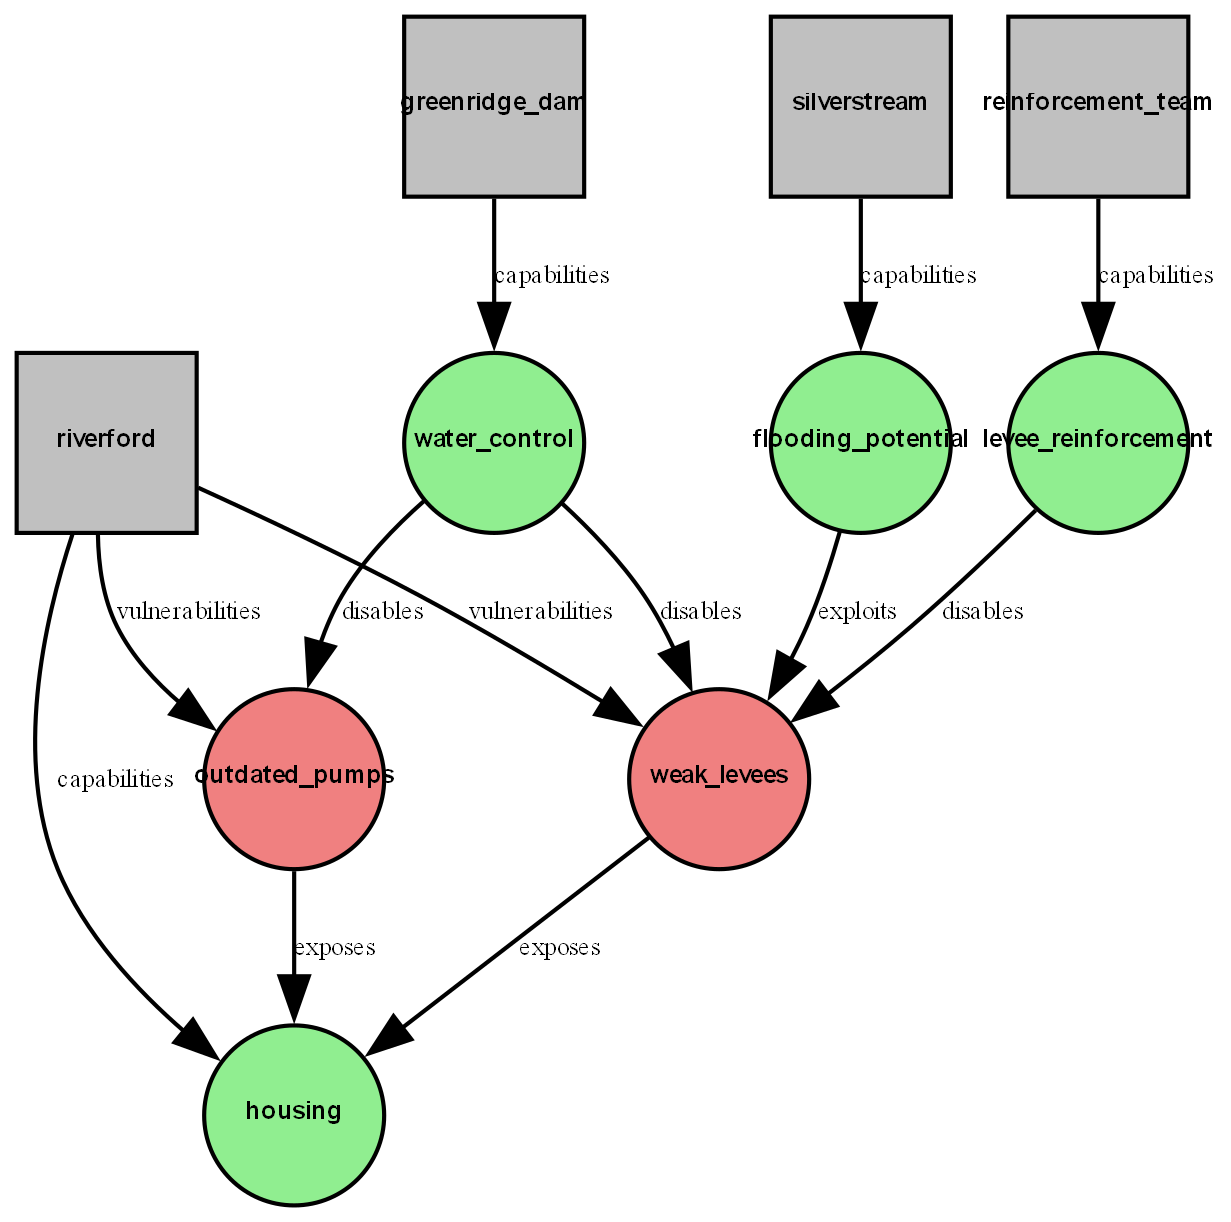
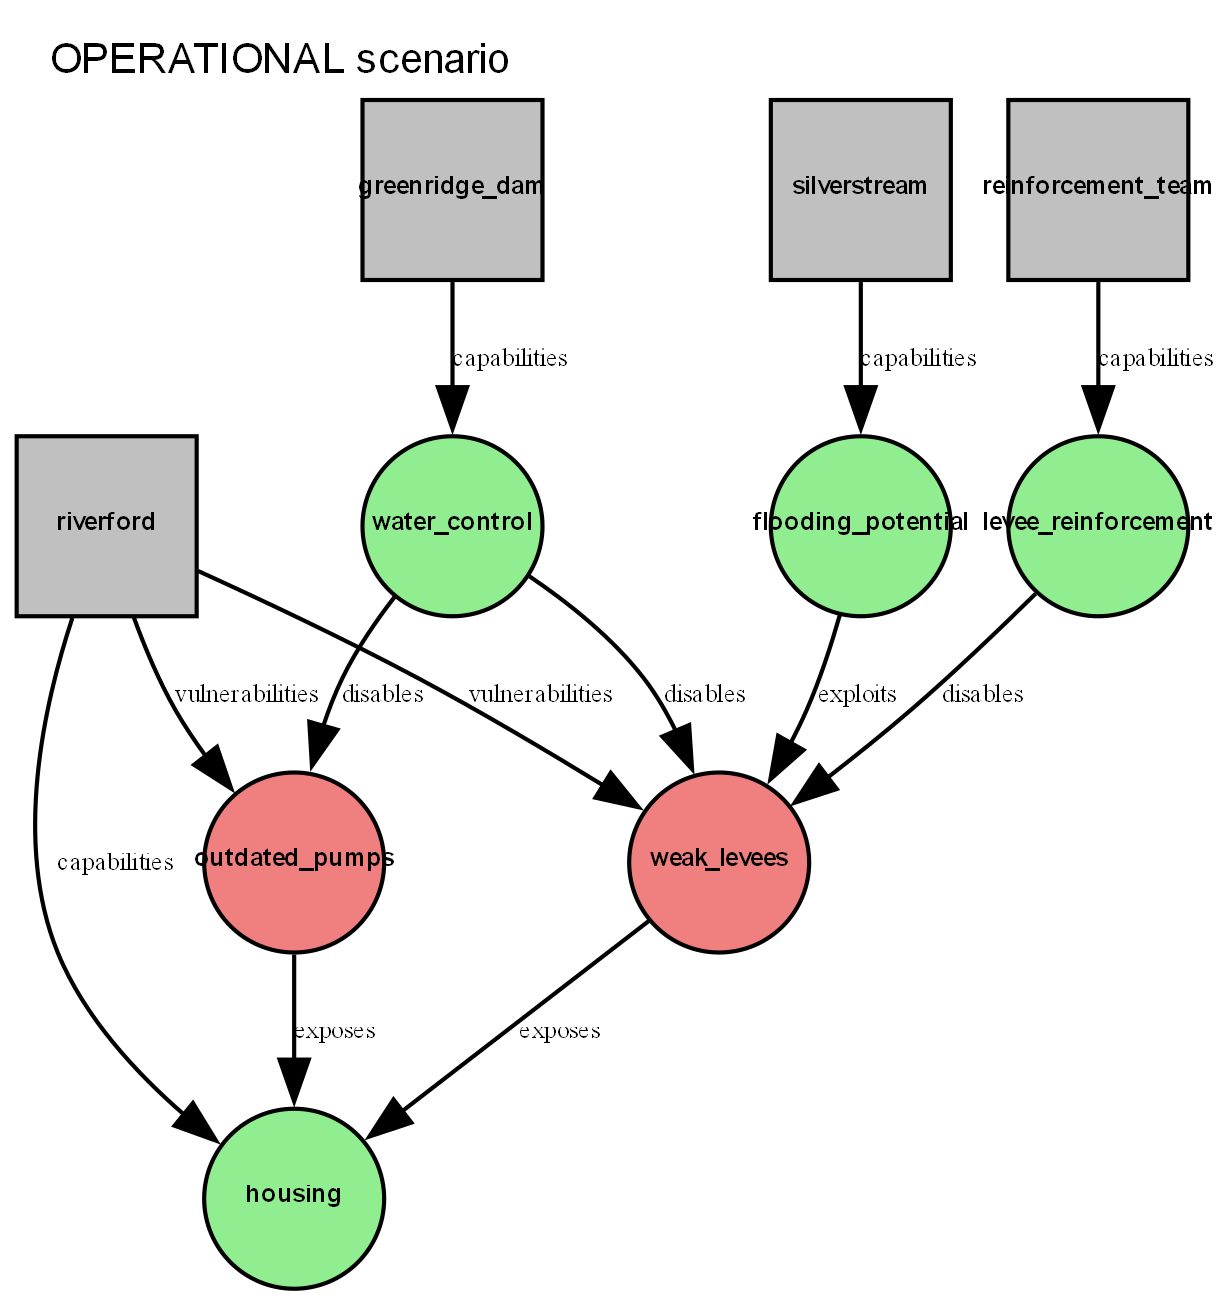
Visualization improved with background and scenario type.

diff --git a/laderr_engine/laderr_lib/services/visualization.py b/laderr_engine/laderr_lib/services/visualization.py
@@ -23,16 +23,7 @@ class GraphCreator:
     @staticmethod
     def create_graph_visualization(laderr_graph: Graph, output_file_path: str) -> None:
         """
-        Generates a Graphviz visualization of the RDF graph and saves it as a PNG.
-
-        This method:
-        - Validates the output file path.
-        - Creates a Graphviz Digraph.
-        - Defines node and edge styles.
-        - Processes nodes from the RDF graph and adds them to the visualization.
-        - Processes relationships between nodes and adds edges with appropriate styles.
-        - (Optional) Adds a text-only legend listing descriptions of node and edge styles.
-        - Saves the final visualization as a PNG file.
+        Generates a Graphviz visualization of the RDF graph and saves it as a PNG, applying scenario-based background color.
 
         :param laderr_graph: RDFLib graph containing LaDeRR data.
         :type laderr_graph: Graph
@@ -41,11 +32,21 @@ class GraphCreator:
         :raises ValueError: If the output file does not have a '.png' extension.
         """
         GraphCreator._validate_output_path(output_file_path)
-        dot = GraphCreator._initialize_graph()
+        bgcolor = GraphCreator._get_scenario_bgcolor(laderr_graph)
+
+        # Get the scenario type explicitly
+        scenario_type = ""
+        for specification in laderr_graph.subjects(RDF.type, LADERR_NS.LaderrSpecification):
+            scenario = laderr_graph.value(specification, LADERR_NS.scenario)
+            if scenario:
+                scenario_type = str(scenario).split("#")[-1].upper()
+                break
+
+        dot = GraphCreator._initialize_graph(bgcolor, scenario_type)
 
         added_nodes = GraphCreator._process_nodes(laderr_graph, dot)
         GraphCreator._process_edges(laderr_graph, dot, added_nodes)
-        dot.render(output_file_path[:-4], cleanup=True)  # Remove '.png' for Graphviz
+        dot.render(output_file_path[:-4], cleanup=True)
         logger.success(f"Graph saved as {output_file_path}")
 
     @staticmethod
@@ -61,17 +62,47 @@ class GraphCreator:
             raise ValueError(f"Invalid file path: '{output_file_path}'. The output file must have a '.png' extension.")
 
     @staticmethod
-    def _initialize_graph() -> graphviz.Digraph:
+    def _initialize_graph(bgcolor: str = "white", scenario_type: str = "") -> graphviz.Digraph:
         """
-        Initializes a Graphviz Digraph with predefined attributes.
+        Initializes a Graphviz Digraph with predefined attributes, including background color and scenario label.
 
+        :param bgcolor: Background color for the graph visualization.
+        :type bgcolor: str
+        :param scenario_type: Scenario type label to display on the upper-left corner.
+        :type scenario_type: str
         :return: A Graphviz Digraph instance with configured attributes.
         :rtype: graphviz.Digraph
         """
         dot = graphviz.Digraph(format='png')
         dot.attr(dpi='300', fontname="Arial", nodesep="0.2", ranksep="0.4",
-                 labelloc="c")  # Ensures labels are centered vertically
+                 labelloc="t", bgcolor=bgcolor, labeljust='l', fontsize="10",
+                 label=f"{scenario_type.upper()} scenario" if scenario_type else "")
         return dot
+
+    @staticmethod
+    def _get_scenario_bgcolor(laderr_graph: Graph) -> str:
+        """
+        Determines the background color of the visualization based on the LaderrSpecification scenario.
+
+        :param laderr_graph: RDFLib graph containing LaDeRR data.
+        :type laderr_graph: Graph
+        :return: Hex color code for background.
+        :rtype: str
+        """
+        scenario_colors = {
+            'operational': '#FFFFFF',  # white
+            'incident': '#E6E6E3',  # very light grey
+            'resilient': '#EBFFEB',  # very light green
+            'not_resilient': '#FDE8E8'  # very light red
+        }
+
+        for specification in laderr_graph.subjects(RDF.type, LADERR_NS.LaderrSpecification):
+            scenario = laderr_graph.value(specification, LADERR_NS.scenario)
+            if scenario:
+                scenario_type = str(scenario).split("#")[-1].lower()
+                return scenario_colors.get(scenario_type, "white")
+
+        return "white"  # Default background color
 
     @staticmethod
     def _process_nodes(laderr_graph: Graph, dot: graphviz.Digraph) -> set:

diff --git a/laderr_engine/tester.py b/laderr_engine/tester.py
@@ -1,5 +1,22 @@
+from graphviz import Graph
+from rdflib import RDF
+
+from laderr_engine.laderr_lib.constants import LADERR_NS
 from laderr_engine.laderr_lib.laderr import Laderr
 from laderr_engine.laderr_lib.services.visualization import GraphCreator
+
+def replace_scenario(graph: Graph, new_scenario: str):
+    # Assume there's exactly one LaderrSpecification instance
+    for spec in graph.subjects(RDF.type, LADERR_NS.LaderrSpecification):
+        # Remove current scenario
+        graph.remove((spec, LADERR_NS.scenario, None))
+        # Add new scenario
+        scenario_uri = LADERR_NS[new_scenario.lower()]
+        graph.add((spec, LADERR_NS.scenario, scenario_uri))
+        print(f"Scenario replaced with '{new_scenario.upper()}'.")
+        break
+    else:
+        print("No LaderrSpecification found.")
 
 if __name__ == "__main__":
     # Load spec_metadata_dict and data from the specification
@@ -18,29 +35,7 @@ if __name__ == "__main__":
 
     laderr_graph = Laderr.exec_inferences_ladder_graph(laderr_graph)
 
-    # Add the triple to the graph
-    # Define Subject, Predicate, and Object
-    # subject = URIRef("https://socio-ecological.example.com/laderr#greenridge_dam")
-    # predicate = URIRef(RDF.type)
-    # obj = URIRef("https://w3id.org/laderr#Asset")
-    # laderr_graph.add((subject, predicate, obj))
-    #
-    # obj = URIRef("https://w3id.org/laderr#Threat")
-    # laderr_graph.add((subject, predicate, obj))
-    #
-    # subject = URIRef("https://socio-ecological.example.com/laderr#reinforcement_team")
-    # obj = URIRef("https://w3id.org/laderr#Threat")
-    # laderr_graph.add((subject, predicate, obj))
-    #
-    # subject = URIRef("https://socio-ecological.example.com/laderr#test")
-    # predicate = URIRef(RDF.type)
-    # obj = URIRef("https://w3id.org/laderr#Disposition")
-    # laderr_graph.add((subject, predicate, obj))
-    #
-    # subject = URIRef("https://socio-ecological.example.com/laderr#levee_reinforcement")
-    # predicate = URIRef(RDF.type)
-    # obj = URIRef("https://w3id.org/laderr#Vulnerability")
-    # laderr_graph.add((subject, predicate, obj))
+    replace_scenario(laderr_graph, 'incident')  # replace with 'operational', 'resilient', etc. as needed
 
     Laderr.save_laderr_graph(laderr_graph,
                              "C:\\Users\\FavatoBarcelosPP\\Dev\\laderr_engine\\manual_test_resources\\output_graph2.ttl")
@@ -49,3 +44,7 @@ if __name__ == "__main__":
 
     GraphCreator.create_graph_visualization(laderr_graph,
                                             "C:\\Users\\FavatoBarcelosPP\\Dev\\laderr_engine\\manual_test_resources\\output_graph2.png")
+
+# TODO: Do I first execute assign the default values or execute SHACL? If former, then no need for some properties.
+
+

diff --git a/laderr_engine/laderr_lib/constants.py b/laderr_engine/laderr_lib/constants.py
@@ -1,5 +1,5 @@
 from rdflib import Namespace
 
 LADERR_NS = Namespace("https://w3id.org/laderr#")
-LADERR_SCHEMA_PATH = "C:\\Users\\FavatoBarcelosPP\\Dev\\laderr\\laderr-schema-v0.6.4.ttl"
+LADERR_SCHEMA_PATH = "C:\\Users\\FavatoBarcelosPP\\Dev\\laderr\\laderr-schema-v0.6.5.ttl"
 SHACL_FILES_PATH = "C:\\Users\\FavatoBarcelosPP\\Dev\\laderr\\shapes"
